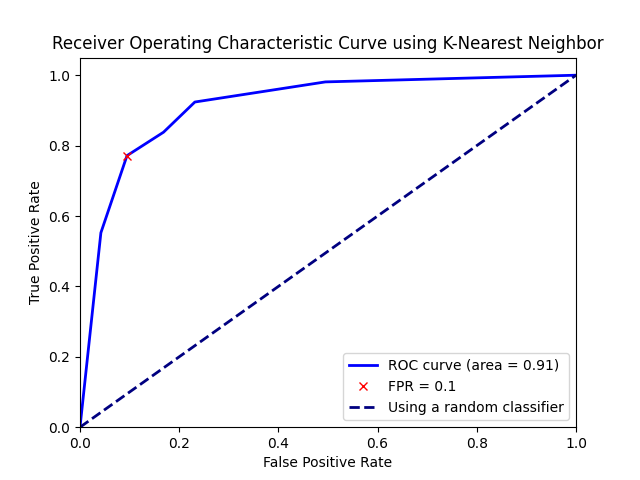
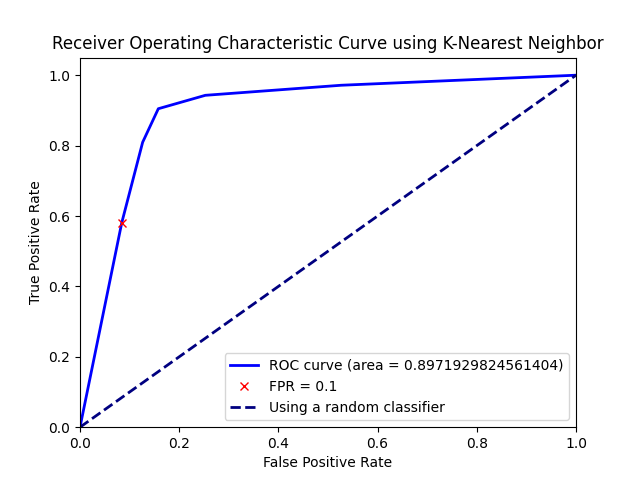
refactor code

diff --git a/main.py b/main.py
@@ -1,5 +1,11 @@
+"""
+CS6140 Project 3
+@filename: main.py
+@author: Haotian Shen, Qiaozhi Liu
+"""
+import random
 from time import time
-from typing import Tuple, Dict, List
+from typing import Tuple, Dict, List, Any
 
 import matplotlib.pyplot as plt
 import numpy as np
@@ -11,12 +17,12 @@ from _decimal import Decimal, getcontext
 from keras.layers import Dense
 from keras.models import Sequential
 from pandas import DataFrame
+from sklearn.calibration import CalibratedClassifierCV
 from sklearn.covariance import LedoitWolf
 from sklearn.ensemble import RandomForestClassifier, VotingClassifier
 from sklearn.linear_model import LogisticRegression, SGDClassifier, RidgeClassifier, Perceptron
 from sklearn.metrics import (accuracy_score, confusion_matrix, classification_report,
                              ConfusionMatrixDisplay, roc_curve, auc)
-from sklearn.model_selection import cross_val_score
 from sklearn.naive_bayes import BernoulliNB
 from sklearn.neighbors import KNeighborsClassifier
 from sklearn.svm import SVC
@@ -178,74 +184,80 @@ def observe_clustering(X: DataFrame) -> None:
     plt.show()
 
 
-def predict(train_X, train_y, test_X, test_y, model):
-    """Computes the accuracy of prediction using the test set based on the specified model.
-
-    The type of model will be passed in as a parameter. It will fit on the training data and use the test_X to make a
-    prediction on y data and calculate the accuracy score.
-    :param train_X: DataFrame
-    :param train_y: DataFrame
-    :param test_X: DataFrame
-    :param test_y: DataFrame
-    :param model: the passed-in model.
-    :return: the accuracy score as a float number.
-    """
-    model.fit(train_X, train_y)
-    pred_y = model.predict(test_X)
-    if hasattr(model, 'predict_proba'):
-        score_y = model.predict_proba(test_X)[:, 1]
-    else:
-        score_y = 1 / (1 + np.exp(-model.decision_function(test_X)))
-    accuracy = accuracy_score(test_y, pred_y)
-    print(f'The accuracy computed using {model.__class__.__name__} is {accuracy * 100}%')
-    return accuracy, pred_y, score_y
-
-
-def train_eval_model(c, X_train, y_train, X_test, y_test, CLF):
-    def pred():
-        t0 = time()
-        p_train, p_test = model.predict(X_train), model.predict(X_test)
-        t = time() - t0
-        return t, p_train, p_test
-
-    def eval_model():
-        acc_train = accuracy_score(y_train, p_train)
-        print(f'Training Accuracy={acc_train:4.3f}')
-        print(classification_report(y_train, p_train))
-
-        acc_test = accuracy_score(y_test, p_test)
-        print(f'Test Accuracy={acc_test:4.3f}')
-        print(classification_report(y_test, p_test))
-
-        cv_scores = cross_val_score(model, X_train, y_train, cv=5)
-        bias = (1 - cv_scores.mean()) ** 2
-        variance = cv_scores.var()
-        print(f'Bias: {bias:.3f}')
-        print(f'Variance: {variance:.3f}')
-
-    model_name = c
-    print(model_name)
-    print(X_train.shape)
-    print(y_train.shape)
-    model = CLF[c]
-
+def predict(X_train, y_train, X_test, y_test, model):
     t0 = time()
-    model.fit(X_train, y_train)
-    time_train = time() - t0
-    print(f'Training time = {time_train:4.2f}')
+    y_train_pred, y_test_pred = model.predict(X_train), model.predict(X_test)
+    t = time() - t0
+    if hasattr(model, 'predict_proba'):
+        y_test_prob = model.predict_proba(X_test)[:, 1]
+    else:
+        calibrator = CalibratedClassifierCV(model, cv='prefit')
+        model = calibrator.fit(X_train, y_train)
+        y_test_prob = model.predict_proba(X_test)[:, 1]
 
-    # trained model
-    CLF[c] = model
-    t, p_train, p_test = pred()
-    print(f'Validation and Test time = {t:4.2f}')
-    eval_model()
-    print('Generating Confusion Matrix')
-    cnf_matrix = confusion_matrix(y_test, p_test)
-    disp = ConfusionMatrixDisplay(confusion_matrix=cnf_matrix)
-    disp.plot()
-    plt.title(f'Confusion Matrix using {model_name}')
-    plt.savefig(f'images/task3_{plt.gca().get_title()}.png')
-    plt.show()
+    test_acc = accuracy_score(y_test, y_test_pred)
+    print(f'The accuracy computed using {model.__class__.__name__} is {test_acc * 100}%')
+    return t, test_acc, y_test_pred, y_train_pred, y_test_prob
+
+
+def analyze_models(X_train, y_train, X_test, y_test) -> Any:
+    CLF = {'Logistic Regression': LogisticRegression(random_state=42),
+           'SGDCClassifier L2': SGDClassifier(penalty='l2', random_state=42),
+           'SGDCClassifier L1': SGDClassifier(penalty='l1', random_state=42),
+           'Ridge Classifier': RidgeClassifier(random_state=42),
+           'Perceptron': Perceptron(random_state=42),
+           'BernoulliNB': BernoulliNB(),
+           'K-Nearest Neighbor': KNeighborsClassifier(),
+           'Support Vector Machine': SVC(random_state=42, probability=True),
+           'Decision Tree Classifier': DecisionTreeClassifier(random_state=42),
+           'Random Forest Classifier': RandomForestClassifier(random_state=42)}
+
+    print('\nAvailable classifiers:')
+    for c in CLF:
+        print('- ', c)
+
+    def train_eval_model(model_name):
+        def eval_model():
+            acc_train = accuracy_score(y_train, y_train_pred)
+            print(f'Training Accuracy = {acc_train}')
+            print(classification_report(y_train, y_train_pred))
+
+            acc_test = accuracy_score(y_test, y_test_pred)
+            print(f'Test Accuracy = {acc_test}')
+            print(classification_report(y_test, y_test_pred))
+
+            bias = 1 - acc_train
+            variance = (1 - acc_test) - bias
+            print(f'Bias: {bias}')
+            print(f'Variance: {variance}')
+
+        print(model_name)
+        print(X_train.shape)
+        print(y_train.shape)
+        model = CLF[model_name]
+
+        t0 = time()
+        model.fit(X_train, y_train)
+        training_t = time() - t0
+        print(f'Training time = {training_t}')
+
+        # save the trained models
+        CLF[model_name] = model
+        t, test_acc, y_test_pred, y_train_pred, y_test_score = predict(X_train, y_train, X_test, y_test, model)
+        print(f'Validation and Test time = {t}')
+        eval_model()
+        print('Generating Confusion Matrix')
+        cnf_matrix = confusion_matrix(y_test, y_test_pred)
+        disp = ConfusionMatrixDisplay(confusion_matrix=cnf_matrix)
+        disp.plot()
+        plt.title(f'Confusion Matrix using {model_name}')
+        plt.savefig(f'images/task3_{plt.gca().get_title()}.png')
+
+    for c in CLF:
+        train_eval_model(c)
+        print('_' * 80)
+        print('_' * 80)
+    return CLF
 
 
 def train_neural_network(X_train, y_train, X_test, y_test, dim):
@@ -271,7 +283,7 @@ def plot_roc(y_test, y_score, model_name):
     fpr, tpr, idx = compute_roc(y_test, y_score, 0.1)
     roc_auc = auc(fpr, tpr)
     plt.figure()
-    plt.plot(fpr, tpr, color='blue', lw=2, label=f'ROC curve (area = {roc_auc:.2f})')
+    plt.plot(fpr, tpr, color='blue', lw=2, label=f'ROC curve (area = {roc_auc})')
     plt.plot(fpr[idx], tpr[idx], 'x', label='FPR = 0.1', color='r')
     plt.plot([0, 1], [0, 1], color='navy', lw=2, label='Using a random classifier', linestyle='--')
     plt.xlim([0.0, 1.0])
@@ -281,20 +293,16 @@ def plot_roc(y_test, y_score, model_name):
     plt.title(f'Receiver Operating Characteristic Curve using {model_name}')
     plt.legend(loc="lower right")
     plt.savefig(f'images/task3_{plt.gca().get_title()}.png')
-    plt.show()
 
 
 def compute_roc(y_test, y_score, fpr_threshold):
     fpr, tpr, thresholds = roc_curve(y_test, y_score)
     idx = (np.abs(fpr - fpr_threshold)).argmin()
-    print(f'The true positive rate at fpr={fpr_threshold} is: {tpr[idx]:.3f}')
+    print(f'The true positive rate at fpr={fpr_threshold} is: {tpr[idx]}')
     return fpr, tpr, idx
 
 
 def main():
-    np.random.seed(42)
-    tf.random.set_seed(42)
-
     # import training and test data into DataFrame
     train_df = read_csv('data/heart_train_718.csv')
     test_df = read_csv('data/heart_test_200.csv')
@@ -361,68 +369,45 @@ def main():
     # observe natural clustering within the training data by projecting it to 2-D
     observe_clustering(X_train)
 
-    CLF = {'Logistic Regression': LogisticRegression(random_state=42),
-           'SGDCClassifier L2': SGDClassifier(penalty='l2', random_state=42),
-           'SGDCClassifier L1': SGDClassifier(penalty='l1', random_state=42),
-           'Ridge Classifier': RidgeClassifier(random_state=42),
-           'Perceptron': Perceptron(random_state=42),
-           'BernoulliNB': BernoulliNB(),
-           'K-Nearest Neighbor': KNeighborsClassifier(),
-           'Support Vector Machine': SVC(random_state=42),
-           'Decision Tree Classifier': DecisionTreeClassifier(random_state=42),
-           'Random Forest Classifier': RandomForestClassifier(random_state=42)}
-
-    print('\nAvailable classifiers:')
-    for c in CLF:
-        print('- ', c)
-
     # use the selected salient features to train different models
-    X_train_selected = X_train.loc[:, [column_names[i] for i in [0, 2, 3, 4, 7, 8, 9, 10]]]
-    X_test_selected = X_test.loc[:, [column_names[i] for i in [0, 2, 3, 4, 7, 8, 9, 10]]]
-    for c in CLF:
-        train_eval_model(c, X_train_selected, y_train, X_test_selected, y_test, CLF)
-        print('_' * 80)
-        print('_' * 80)
-
-    # use neural network
-    train_neural_network(X_train_selected, y_train, X_test_selected, y_test, 8)
+    X_train = X_train.drop(['Sex', 'FastingBS', 'RestingECG'], axis=1)
+    X_test = X_test.drop(['Sex', 'FastingBS', 'RestingECG'], axis=1)
+    CLF = analyze_models(X_train, y_train, X_test, y_test)
 
     # feature engineering for quadratic and cubic terms.
     # these are commented out because they do not improve the results.
     # print('feature engineering quadratic and cubed terms')
-    # X_train_selected['Cholesterol_squared'] = X_train_selected['Cholesterol'].apply(lambda x: x ** 2)
-    # X_test_selected['Cholesterol_squared'] = X_test_selected['Cholesterol'].apply(lambda x: x ** 2)
-    # X_train_selected['Cholesterol_cubic'] = X_train_selected['Cholesterol'].apply(lambda x: x ** 3)
-    # X_test_selected['Cholesterol_cubic'] = X_test_selected['Cholesterol'].apply(lambda x: x ** 3)
+    # X_train['Cholesterol_squared'] = X_train['Cholesterol'].apply(lambda x: x ** 2)
+    # X_test['Cholesterol_squared'] = X_test['Cholesterol'].apply(lambda x: x ** 2)
+    # X_train['Cholesterol_cubic'] = X_train['Cholesterol'].apply(lambda x: x ** 3)
+    # X_test['Cholesterol_cubic'] = X_test['Cholesterol'].apply(lambda x: x ** 3)
+
+    # use neural network
+    train_neural_network(X_train, y_train, X_test, y_test, 8)
 
     # evaluate the logistic regression again using engineered features.
-    # train_eval_model('Logistic Regression', X_train_selected, y_train, X_test_selected, y_test, CLF)
+    # train_eval_model('Logistic Regression', X_train, y_train, X_test, y_test, CLF)
 
     # plot ROC curve for 4 models
-    selected_models = ['Support Vector Machine', 'Random Forest Classifier', 'K-Nearest Neighbor',
+    selected_models = ['Support Vector Machine',
+                       'Random Forest Classifier',
+                       'K-Nearest Neighbor',
                        'Logistic Regression']
     print(f'\nThe selected models for ROC curve are {selected_models}')
     for c in CLF:
         if c in selected_models:
-            _, _, y_score = predict(X_train_selected, y_train, X_test_selected, y_test, CLF[c])
-            plot_roc(y_test, y_score, c)
-
-    # drop the engineered features as they do not improve the test accuracy.
-    # X_train_selected = X_train_selected.drop('Cholesterol_squared', axis=1)
-    # X_train_selected = X_train_selected.drop('Cholesterol_cubic', axis=1)
-    # X_test_selected = X_test_selected.drop('Cholesterol_squared', axis=1)
-    # X_test_selected = X_test_selected.drop('Cholesterol_cubic', axis=1)
+            _, test_acc, y_test_pred, y_train_pred, y_test_prob = predict(X_train, y_train, X_test, y_test, CLF[c])
+            plot_roc(y_test, y_test_prob, c)
 
     # after ROC, decide to use RandomForestClassifier and K-Nearest Neighbor models for 3 iterations
     # K-Nearest Neighbor Classifier
     # First iteration
     print('\nFirst iteration using K-Nearest Neighbor')
     knn_first_iter = KNeighborsClassifier(n_neighbors=7, leaf_size=15)
-    knn_first_iter.fit(X_train_selected, y_train)
-    knn_first_iter.score(X_test_selected, y_test)
-    _, y_pred, y_score = predict(X_train_selected, y_train, X_test_selected, y_test, knn_first_iter)
-    compute_roc(y_test, y_score, 0.1)
-    cnf_matrix = confusion_matrix(y_test, y_pred)
+    knn_first_iter.fit(X_train, y_train)
+    _, test_acc, y_test_pred, y_train_pred, y_test_prob = predict(X_train, y_train, X_test, y_test, knn_first_iter)
+    compute_roc(y_test, y_test_prob, 0.1)
+    cnf_matrix = confusion_matrix(y_test, y_test_pred)
     plt.figure()
     disp = ConfusionMatrixDisplay(confusion_matrix=cnf_matrix)
     disp.plot()
@@ -432,13 +417,12 @@ def main():
 
     # Second iteration
     print('\nSecond iteration using K-Nearest Neighbor')
-    cov = LedoitWolf().fit(X_train_selected).covariance_
+    cov = LedoitWolf().fit(X_train).covariance_
     knn_second_iter = KNeighborsClassifier(n_neighbors=7, leaf_size=15, metric='mahalanobis', metric_params={'V': cov})
-    knn_second_iter.fit(X_train_selected, y_train)
-    knn_second_iter.score(X_test_selected, y_test)
-    _, y_pred, y_score = predict(X_train_selected, y_train, X_test_selected, y_test, knn_second_iter)
-    compute_roc(y_test, y_score, 0.1)
-    cnf_matrix = confusion_matrix(y_test, y_pred)
+    knn_second_iter.fit(X_train, y_train)
+    _, test_acc, y_test_pred, y_train_pred, y_test_prob = predict(X_train, y_train, X_test, y_test, knn_second_iter)
+    compute_roc(y_test, y_test_prob, 0.1)
+    cnf_matrix = confusion_matrix(y_test, y_test_pred)
     plt.figure()
     disp = ConfusionMatrixDisplay(confusion_matrix=cnf_matrix)
     disp.plot()
@@ -455,11 +439,10 @@ def main():
     ]
     knn_ensemble = VotingClassifier(estimators=[('model%d' % i, model) for i, model in enumerate(knn_models)],
                                     voting='soft')
-    knn_ensemble.fit(X_train_selected, y_train)
-    knn_ensemble.score(X_test_selected, y_test)
-    _, y_pred, y_score = predict(X_train_selected, y_train, X_test_selected, y_test, knn_ensemble)
-    compute_roc(y_test, y_score, 0.1)
-    cnf_matrix = confusion_matrix(y_test, y_pred)
+    knn_ensemble.fit(X_train, y_train)
+    _, test_acc, y_test_pred, y_train_pred, y_test_prob = predict(X_train, y_train, X_test, y_test, knn_ensemble)
+    compute_roc(y_test, y_test_prob, 0.1)
+    cnf_matrix = confusion_matrix(y_test, y_test_pred)
     plt.figure()
     disp = ConfusionMatrixDisplay(confusion_matrix=cnf_matrix)
     disp.plot()
@@ -471,11 +454,10 @@ def main():
     # First iteration
     print('\nFirst iteration using Random Forest Classifier')
     rfc_first_iter = RandomForestClassifier(max_depth=5, n_estimators=100, random_state=42)
-    rfc_first_iter.fit(X_train_selected, y_train)
-    rfc_first_iter.score(X_test_selected, y_test)
-    _, y_pred, y_score = predict(X_train_selected, y_train, X_test_selected, y_test, rfc_first_iter)
-    compute_roc(y_test, y_score, 0.1)
-    cnf_matrix = confusion_matrix(y_test, y_pred)
+    rfc_first_iter.fit(X_train, y_train)
+    _, test_acc, y_test_pred, y_train_pred, y_test_prob = predict(X_train, y_train, X_test, y_test, rfc_first_iter)
+    compute_roc(y_test, y_test_prob, 0.1)
+    cnf_matrix = confusion_matrix(y_test, y_test_pred)
     plt.figure()
     disp = ConfusionMatrixDisplay(confusion_matrix=cnf_matrix)
     disp.plot()
@@ -486,11 +468,10 @@ def main():
     # Second iteration
     print('\nSecond iteration using Random Forest Classifier')
     rfc_second_iter = RandomForestClassifier(max_depth=10, n_estimators=100, min_samples_split=4, random_state=42)
-    rfc_second_iter.fit(X_train_selected, y_train)
-    rfc_second_iter.score(X_test_selected, y_test)
-    _, y_pred, y_score = predict(X_train_selected, y_train, X_test_selected, y_test, rfc_second_iter)
-    compute_roc(y_test, y_score, 0.1)
-    cnf_matrix = confusion_matrix(y_test, y_pred)
+    rfc_second_iter.fit(X_train, y_train)
+    _, test_acc, y_test_pred, y_train_pred, y_test_prob = predict(X_train, y_train, X_test, y_test, rfc_second_iter)
+    compute_roc(y_test, y_test_prob, 0.1)
+    cnf_matrix = confusion_matrix(y_test, y_test_pred)
     plt.figure()
     disp = ConfusionMatrixDisplay(confusion_matrix=cnf_matrix)
     disp.plot()
@@ -502,11 +483,10 @@ def main():
     print('\nThird iteration using Random Forest Classifier')
     rfc_third_iter = RandomForestClassifier(max_depth=10, n_estimators=50, min_samples_split=4, max_features=None,
                                             random_state=42)
-    rfc_third_iter.fit(X_train_selected, y_train)
-    rfc_third_iter.score(X_test_selected, y_test)
-    _, y_pred, y_score = predict(X_train_selected, y_train, X_test_selected, y_test, rfc_third_iter)
-    compute_roc(y_test, y_score, 0.1)
-    cnf_matrix = confusion_matrix(y_test, y_pred)
+    rfc_third_iter.fit(X_train, y_train)
+    _, test_acc, y_test_pred, y_train_pred, y_test_prob = predict(X_train, y_train, X_test, y_test, rfc_third_iter)
+    compute_roc(y_test, y_test_prob, 0.1)
+    cnf_matrix = confusion_matrix(y_test, y_test_pred)
     plt.figure()
     disp = ConfusionMatrixDisplay(confusion_matrix=cnf_matrix)
     disp.plot()
@@ -518,4 +498,7 @@ def main():
 if __name__ == '__main__':
     pd.set_option('display.max_rows', None)
     pd.set_option('display.max_columns', None)
+    random.seed(42)
+    np.random.seed(42)
+    tf.random.set_seed(42)
     main()
